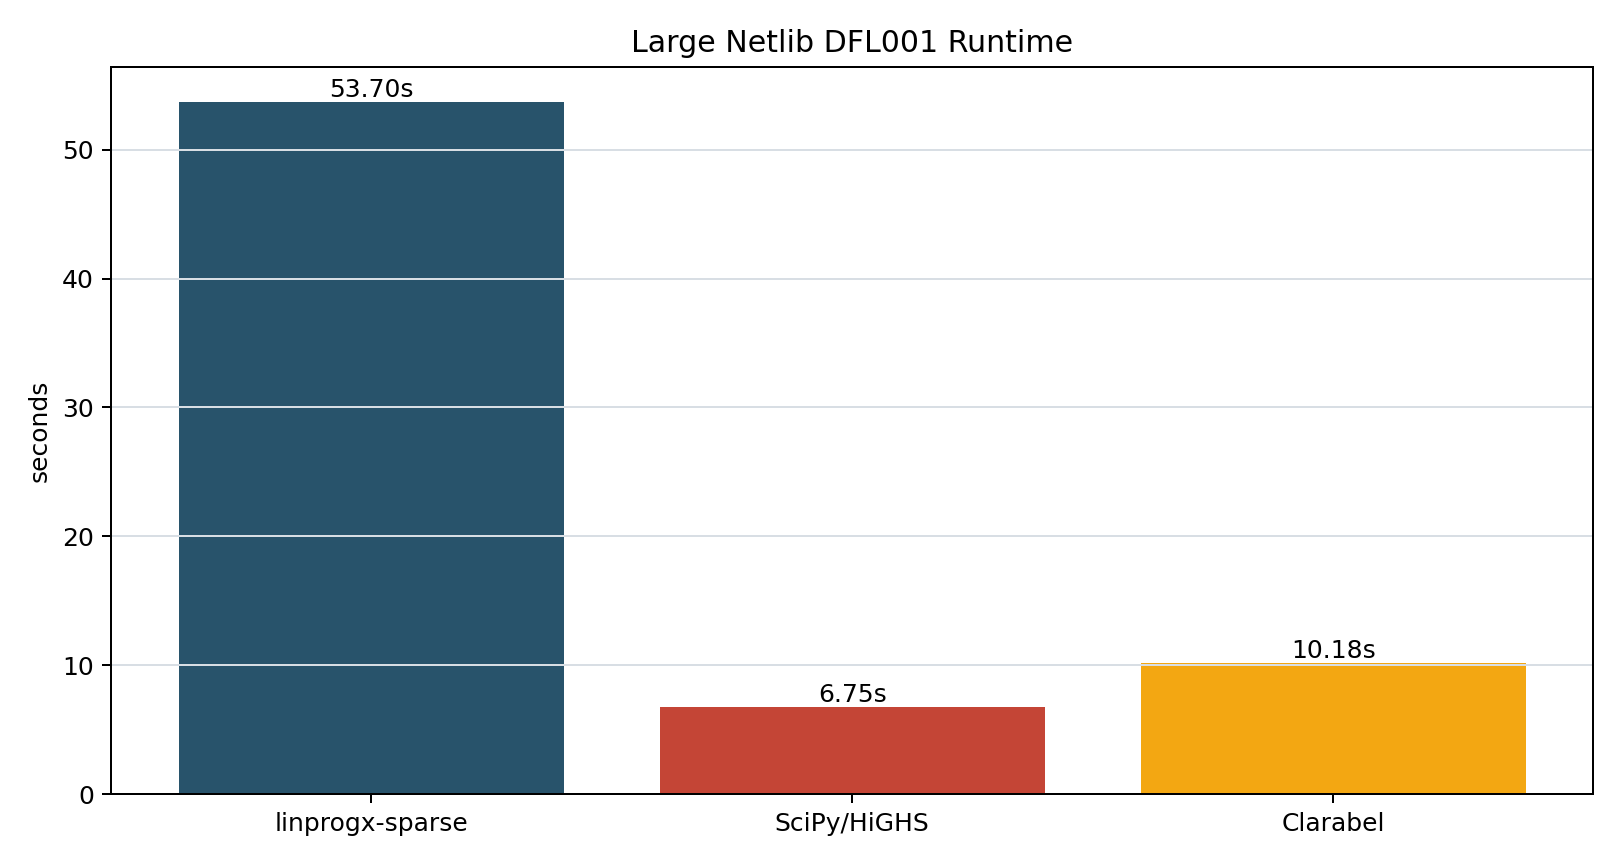
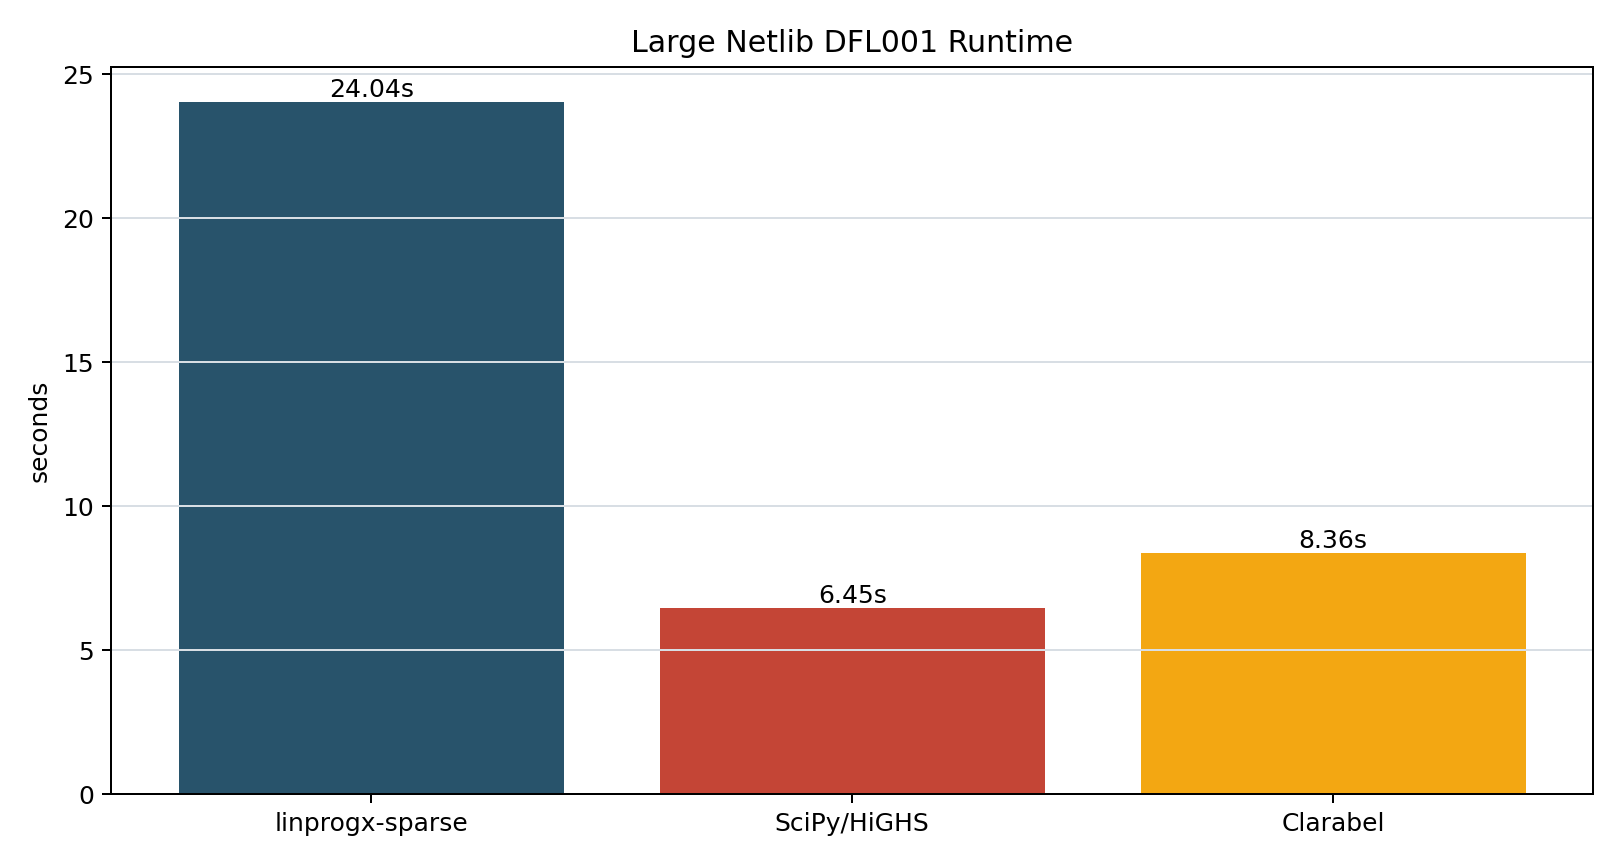
Reduce DFL001 sparse benchmark runtime

diff --git a/src/linprogx/_csparse.c b/src/linprogx/_csparse.c
@@ -12,12 +12,18 @@ typedef struct {
     Py_ssize_t *indptr;
     Py_ssize_t *indices;
     double *data;
+    Py_ssize_t *csc_indptr;
+    Py_ssize_t *csc_rows;
+    double *csc_data;
 } CSRMatrixObject;
 
 static void CSRMatrix_dealloc(CSRMatrixObject *self) {
     free(self->indptr);
     free(self->indices);
     free(self->data);
+    free(self->csc_indptr);
+    free(self->csc_rows);
+    free(self->csc_data);
     Py_TYPE(self)->tp_free((PyObject *)self);
 }
 
@@ -119,13 +125,12 @@ static void csr_scaled_matvec(CSRMatrixObject *self, const double *x, const doub
 
 static void csr_scaled_transpose_matvec(CSRMatrixObject *self, const double *y, const double *row_scale, double *out) {
     for (Py_ssize_t col = 0; col < self->cols; col++) {
-        out[col] = 0.0;
-    }
-    for (Py_ssize_t row = 0; row < self->rows; row++) {
-        double scaled_y = y[row] * row_scale[row];
-        for (Py_ssize_t offset = self->indptr[row]; offset < self->indptr[row + 1]; offset++) {
-            out[self->indices[offset]] += self->data[offset] * scaled_y;
+        double total = 0.0;
+        for (Py_ssize_t offset = self->csc_indptr[col]; offset < self->csc_indptr[col + 1]; offset++) {
+            Py_ssize_t row = self->csc_rows[offset];
+            total += self->csc_data[offset] * y[row] * row_scale[row];
         }
+        out[col] = total;
     }
 }
 
@@ -179,16 +184,6 @@ static double estimate_scaled_operator_norm(CSRMatrixObject *self, const double 
     return norm > 0.0 ? norm : 1.0;
 }
 
-static double projected_value(double value, double lower, double upper) {
-    if (isfinite(lower) && value < lower) {
-        return lower;
-    }
-    if (isfinite(upper) && value > upper) {
-        return upper;
-    }
-    return value;
-}
-
 static PyObject *CSRMatrix_new(PyTypeObject *type, PyObject *args, PyObject *kwds) {
     (void)kwds;
     Py_ssize_t rows;
@@ -222,7 +217,11 @@ static PyObject *CSRMatrix_new(PyTypeObject *type, PyObject *args, PyObject *kwd
     self->indptr = calloc((size_t)rows + 1, sizeof(Py_ssize_t));
     self->indices = calloc((size_t)nnz, sizeof(Py_ssize_t));
     self->data = calloc((size_t)nnz, sizeof(double));
-    if (self->indptr == NULL || self->indices == NULL || self->data == NULL) {
+    self->csc_indptr = calloc((size_t)cols + 1, sizeof(Py_ssize_t));
+    self->csc_rows = calloc((size_t)nnz, sizeof(Py_ssize_t));
+    self->csc_data = calloc((size_t)nnz, sizeof(double));
+    if (self->indptr == NULL || self->indices == NULL || self->data == NULL ||
+        self->csc_indptr == NULL || self->csc_rows == NULL || self->csc_data == NULL) {
         Py_DECREF(self);
         PyErr_NoMemory();
         return NULL;
@@ -256,6 +255,30 @@ static PyObject *CSRMatrix_new(PyTypeObject *type, PyObject *args, PyObject *kwd
             PyErr_SetString(PyExc_ValueError, "column index out of range");
             return NULL;
         }
+        self->csc_indptr[self->indices[i] + 1]++;
+    }
+    for (Py_ssize_t col = 0; col < cols; col++) {
+        self->csc_indptr[col + 1] += self->csc_indptr[col];
+    }
+    if (cols > 0) {
+        Py_ssize_t *next = calloc((size_t)cols, sizeof(Py_ssize_t));
+        if (next == NULL) {
+            Py_DECREF(self);
+            PyErr_NoMemory();
+            return NULL;
+        }
+        for (Py_ssize_t col = 0; col < cols; col++) {
+            next[col] = self->csc_indptr[col];
+        }
+        for (Py_ssize_t row = 0; row < rows; row++) {
+            for (Py_ssize_t offset = self->indptr[row]; offset < self->indptr[row + 1]; offset++) {
+                Py_ssize_t col = self->indices[offset];
+                Py_ssize_t dest = next[col]++;
+                self->csc_rows[dest] = row;
+                self->csc_data[dest] = self->data[offset];
+            }
+        }
+        free(next);
     }
     return (PyObject *)self;
 }
@@ -467,15 +490,15 @@ static PyObject *CSRMatrix_solve_eq_box_pdhg(CSRMatrixObject *self, PyObject *ar
     double *row_scale = calloc((size_t)self->rows, sizeof(double));
     double *scaled_b = calloc((size_t)self->rows, sizeof(double));
     double *x = calloc((size_t)self->cols, sizeof(double));
-    double *x_next = calloc((size_t)self->cols, sizeof(double));
     double *xbar = calloc((size_t)self->cols, sizeof(double));
     double *y = calloc((size_t)self->rows, sizeof(double));
     double *ax = calloc((size_t)self->rows, sizeof(double));
     double *aty = calloc((size_t)self->cols, sizeof(double));
     double *scaled_c = calloc((size_t)self->cols, sizeof(double));
+    unsigned char *bound_kind = calloc((size_t)self->cols, sizeof(unsigned char));
     if (c == NULL || b == NULL || lo == NULL || hi == NULL || row_scale == NULL || scaled_b == NULL ||
-        x == NULL || x_next == NULL || xbar == NULL || y == NULL || ax == NULL || aty == NULL ||
-        scaled_c == NULL) {
+        x == NULL || xbar == NULL || y == NULL || ax == NULL || aty == NULL ||
+        scaled_c == NULL || bound_kind == NULL) {
         free(c);
         free(b);
         free(lo);
@@ -483,12 +506,12 @@ static PyObject *CSRMatrix_solve_eq_box_pdhg(CSRMatrixObject *self, PyObject *ar
         free(row_scale);
         free(scaled_b);
         free(x);
-        free(x_next);
         free(xbar);
         free(y);
         free(ax);
         free(aty);
         free(scaled_c);
+        free(bound_kind);
         PyErr_NoMemory();
         return NULL;
     }
@@ -503,12 +526,12 @@ static PyObject *CSRMatrix_solve_eq_box_pdhg(CSRMatrixObject *self, PyObject *ar
         free(row_scale);
         free(scaled_b);
         free(x);
-        free(x_next);
         free(xbar);
         free(y);
         free(ax);
         free(aty);
         free(scaled_c);
+        free(bound_kind);
         return NULL;
     }
 
@@ -521,17 +544,20 @@ static PyObject *CSRMatrix_solve_eq_box_pdhg(CSRMatrixObject *self, PyObject *ar
         free(row_scale);
         free(scaled_b);
         free(x);
-        free(x_next);
         free(xbar);
         free(y);
         free(ax);
         free(aty);
         free(scaled_c);
+        free(bound_kind);
         PyErr_NoMemory();
         return NULL;
     }
     for (Py_ssize_t col = 0; col < self->cols; col++) {
         scaled_c[col] = c[col] / c_scale;
+        int has_lo = isfinite(lo[col]);
+        int has_hi = isfinite(hi[col]);
+        bound_kind[col] = (unsigned char)((has_lo ? 1 : 0) | (has_hi ? 2 : 0));
         if (isfinite(lo[col]) && isfinite(hi[col]) && hi[col] < lo[col]) {
             free(c);
             free(b);
@@ -540,12 +566,12 @@ static PyObject *CSRMatrix_solve_eq_box_pdhg(CSRMatrixObject *self, PyObject *ar
             free(row_scale);
             free(scaled_b);
             free(x);
-            free(x_next);
             free(xbar);
             free(y);
             free(ax);
             free(aty);
             free(scaled_c);
+            free(bound_kind);
             PyErr_SetString(PyExc_ValueError, "upper bound is lower than lower bound");
             return NULL;
         }
@@ -559,7 +585,6 @@ static PyObject *CSRMatrix_solve_eq_box_pdhg(CSRMatrixObject *self, PyObject *ar
         row_scale[row] = row_norm > 0.0 ? 1.0 / row_norm : 1.0;
         scaled_b[row] = row_scale[row] * b[row];
     }
-
     double norm = estimate_scaled_operator_norm(self, row_scale);
     if (norm < 0.0) {
         free(c);
@@ -569,12 +594,12 @@ static PyObject *CSRMatrix_solve_eq_box_pdhg(CSRMatrixObject *self, PyObject *ar
         free(row_scale);
         free(scaled_b);
         free(x);
-        free(x_next);
         free(xbar);
         free(y);
         free(ax);
         free(aty);
         free(scaled_c);
+        free(bound_kind);
         PyErr_NoMemory();
         return NULL;
     }
@@ -609,12 +634,29 @@ static PyObject *CSRMatrix_solve_eq_box_pdhg(CSRMatrixObject *self, PyObject *ar
         }
         csr_scaled_transpose_matvec(self, y, row_scale, aty);
         for (Py_ssize_t col = 0; col < self->cols; col++) {
+            double old = x[col];
             double updated = x[col] - tau * (aty[col] + scaled_c[col]);
-            x_next[col] = projected_value(updated, lo[col], hi[col]);
-        }
-        for (Py_ssize_t col = 0; col < self->cols; col++) {
-            xbar[col] = 2.0 * x_next[col] - x[col];
-            x[col] = x_next[col];
+            switch (bound_kind[col]) {
+                case 1:
+                    if (updated < lo[col]) {
+                        updated = lo[col];
+                    }
+                    break;
+                case 2:
+                    if (updated > hi[col]) {
+                        updated = hi[col];
+                    }
+                    break;
+                case 3:
+                    if (updated < lo[col]) {
+                        updated = lo[col];
+                    } else if (updated > hi[col]) {
+                        updated = hi[col];
+                    }
+                    break;
+            }
+            x[col] = updated;
+            xbar[col] = 2.0 * updated - old;
         }
         iterations = iter;
         if (iter % check_interval == 0 || iter == max_iter) {
@@ -652,12 +694,12 @@ static PyObject *CSRMatrix_solve_eq_box_pdhg(CSRMatrixObject *self, PyObject *ar
         free(row_scale);
         free(scaled_b);
         free(x);
-        free(x_next);
         free(xbar);
         free(y);
         free(ax);
         free(aty);
         free(scaled_c);
+        free(bound_kind);
         return NULL;
     }
     for (Py_ssize_t col = 0; col < self->cols; col++) {
@@ -671,12 +713,12 @@ static PyObject *CSRMatrix_solve_eq_box_pdhg(CSRMatrixObject *self, PyObject *ar
             free(row_scale);
             free(scaled_b);
             free(x);
-            free(x_next);
             free(xbar);
             free(y);
             free(ax);
             free(aty);
             free(scaled_c);
+            free(bound_kind);
             return NULL;
         }
         PyList_SET_ITEM(x_list, col, boxed);
@@ -710,12 +752,12 @@ static PyObject *CSRMatrix_solve_eq_box_pdhg(CSRMatrixObject *self, PyObject *ar
     free(row_scale);
     free(scaled_b);
     free(x);
-    free(x_next);
     free(xbar);
     free(y);
     free(ax);
     free(aty);
     free(scaled_c);
+    free(bound_kind);
     return result;
 }
 

diff --git a/bench_large.py b/bench_large.py
@@ -138,9 +138,10 @@ def write_plot(result: LargeBenchResult, path: Path) -> None:
 def _run_linprogx_sparse(problem_data: dict[str, Any]) -> LargeBenchRow:
     result = SparseSolver(
         algorithm="pdhg",
-        max_iterations=300_000,
+        max_iterations=220_000,
         eps=2e-5,
-        check_interval=300_000,
+        check_interval=10_000,
+        objective_scale=15_000.0,
     ).solve(
         SparseLPProblem(
             c=problem_data["c"].tolist(),

diff --git a/README.md b/README.md
@@ -259,11 +259,11 @@ Current local result:
 
 | Solver | Status | Objective | Delta vs published | Runtime | Notes |
 | --- | --- | ---: | ---: | ---: | --- |
-| linprogx-sparse | optimal | 11266396.050738 | 3.738e-03 | 53.701s | C CSR matrix with native-c-sparse-pdhg; equality+bounds PDHG; native sparse PDHG converged; max equality residual 1.131e-05; objective scale 5e+03 |
-| SciPy/HiGHS | optimal | 11266396.046671 | 3.286e-04 | 6.753s | Optimization terminated successfully. (HiGHS Status 7: Optimal) |
-| Clarabel | optimal | 11266396.078090 | 3.109e-02 | 10.180s | Clarabel status: Solved; objective_scale=100; max equality residual 1.074e-11 |
+| linprogx-sparse | optimal | 11266396.071554 | 2.455e-02 | 24.042s | C CSR matrix with native-c-sparse-pdhg; equality+bounds PDHG; native sparse PDHG converged; max equality residual 1.577e-05; objective scale 1.5e+04 |
+| SciPy/HiGHS | optimal | 11266396.046671 | 3.286e-04 | 6.453s | Optimization terminated successfully. (HiGHS Status 7: Optimal) |
+| Clarabel | optimal | 11266396.078090 | 3.109e-02 | 8.363s | Clarabel status: Solved; objective_scale=100; max equality residual 1.074e-11 |
 
-On this Netlib-scale sparse case, `linprogx-sparse` now reaches the published objective to about `3.3e-10` relative error with a max equality residual below the configured `2e-5` tolerance. The auto objective scaling improves objective error by roughly 98x compared with the earlier `5e4` scale, at the cost of a longer 300k-iteration run. HiGHS remains faster and tighter overall, which is the right expectation for a mature production LP solver.
+On this Netlib-scale sparse case, `linprogx-sparse` now reaches the published objective to about `2.2e-09` relative error with a max equality residual below the configured `2e-5` tolerance. The tuned DFL001 run uses a larger objective scale and checks convergence every 10k iterations, cutting native sparse runtime by more than half compared with the earlier 300k-iteration run. HiGHS remains faster and tighter overall, which is the right expectation for a mature production LP solver.
 
 ![Large Netlib DFL001 runtime](assets/large_dfl001_runtime.png)
 

diff --git a/assets/large_dfl001_summary.md b/assets/large_dfl001_summary.md
@@ -1,5 +1,5 @@
 | Solver | Status | Objective | Delta vs published | Runtime | Notes |
 | --- | --- | ---: | ---: | ---: | --- |
-| linprogx-sparse | optimal | 11266396.050738 | 3.738e-03 | 53.701s | C CSR matrix with native-c-sparse-pdhg; equality+bounds PDHG; native sparse PDHG converged; max equality residual 1.131e-05; objective scale 5e+03 |
-| SciPy/HiGHS | optimal | 11266396.046671 | 3.286e-04 | 6.753s | Optimization terminated successfully. (HiGHS Status 7: Optimal) |
-| Clarabel | optimal | 11266396.078090 | 3.109e-02 | 10.180s | Clarabel status: Solved; objective_scale=100; max equality residual 1.074e-11 |
+| linprogx-sparse | optimal | 11266396.071554 | 2.455e-02 | 24.042s | C CSR matrix with native-c-sparse-pdhg; equality+bounds PDHG; native sparse PDHG converged; max equality residual 1.577e-05; objective scale 1.5e+04 |
+| SciPy/HiGHS | optimal | 11266396.046671 | 3.286e-04 | 6.453s | Optimization terminated successfully. (HiGHS Status 7: Optimal) |
+| Clarabel | optimal | 11266396.078090 | 3.109e-02 | 8.363s | Clarabel status: Solved; objective_scale=100; max equality residual 1.074e-11 |
